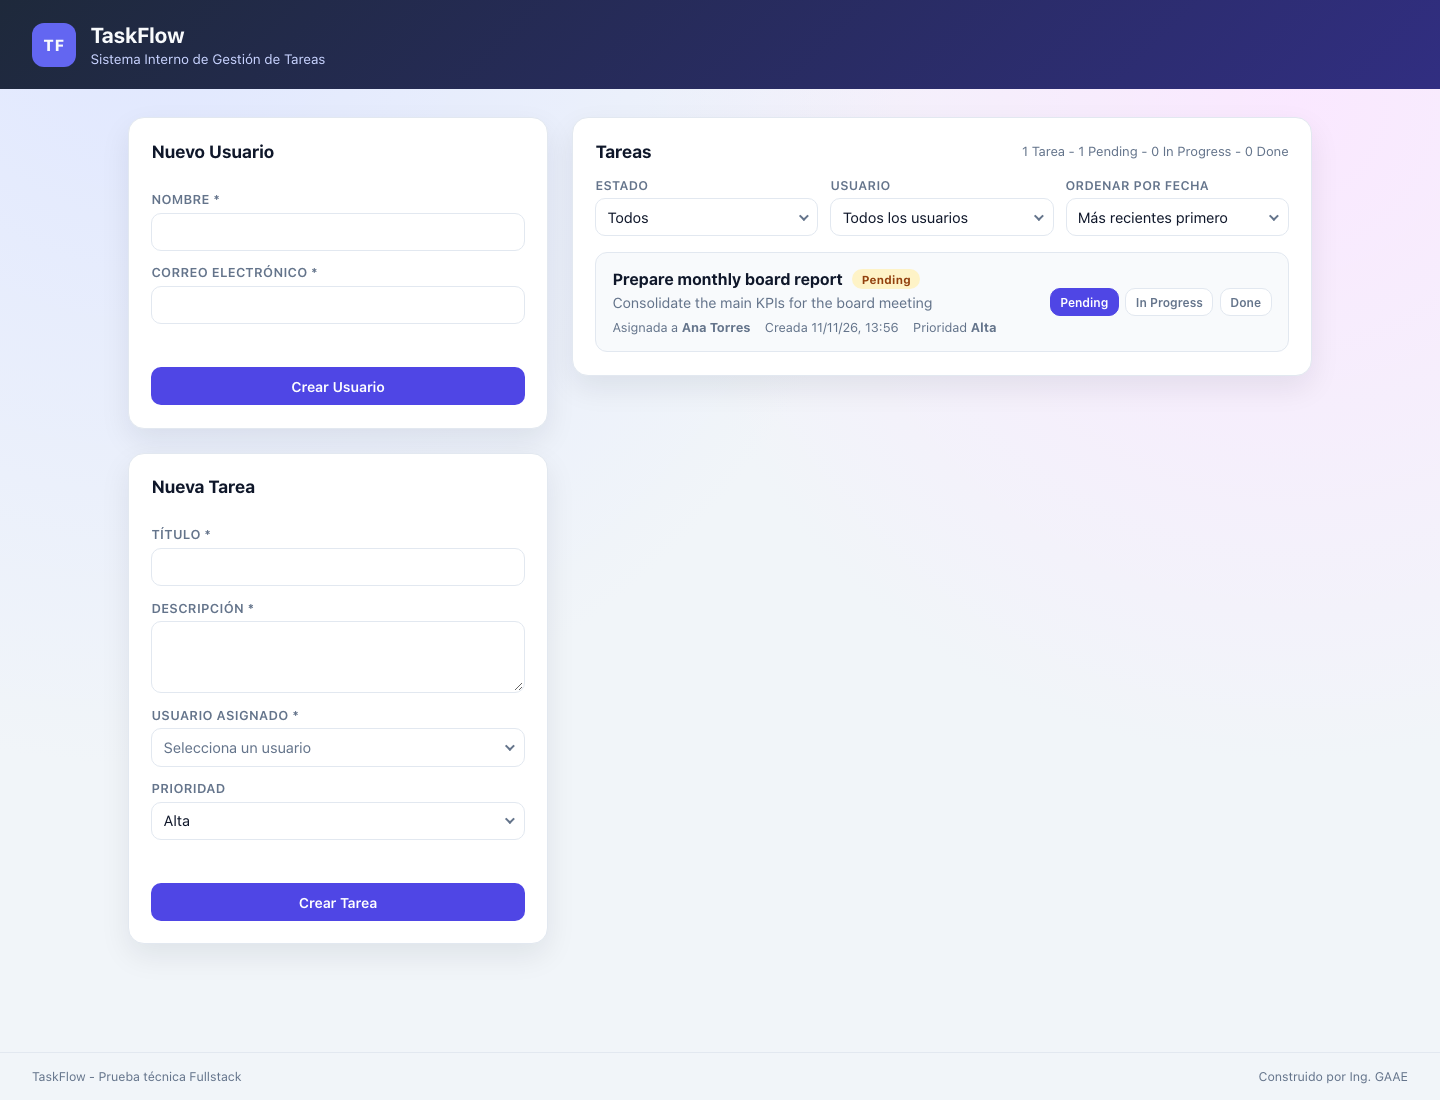
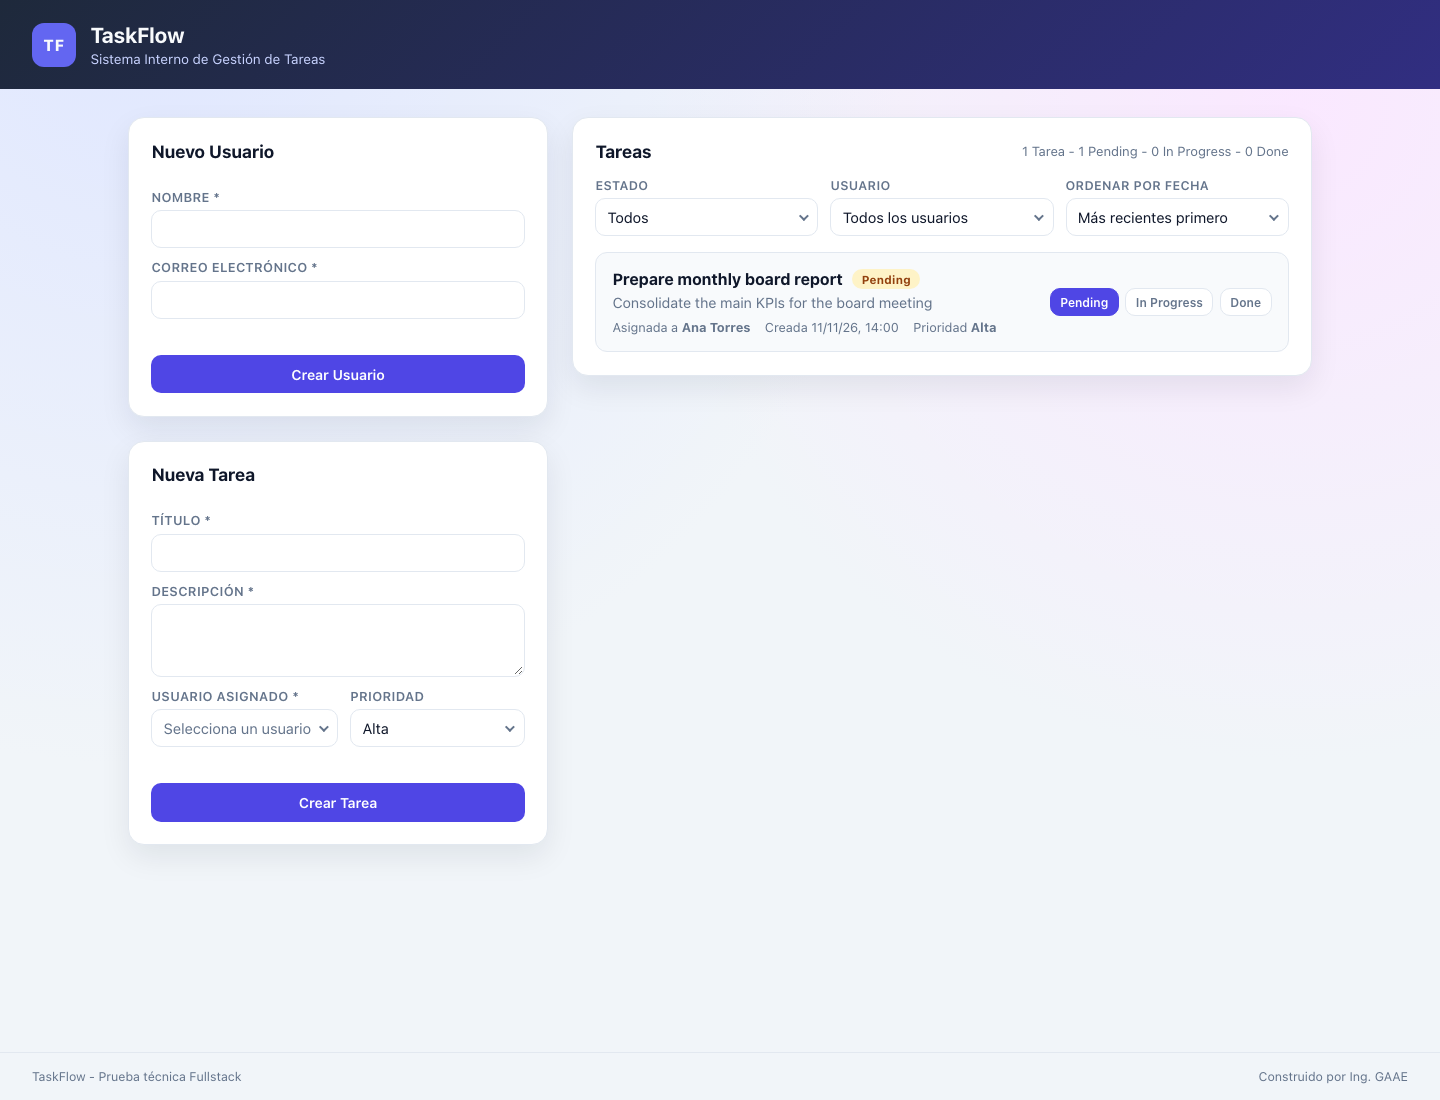
feat: put task form user and priority fields in two columns

diff --git a/frontend/src/app/features/tasks/task-form/task-form.component.html b/frontend/src/app/features/tasks/task-form/task-form.component.html
@@ -22,24 +22,26 @@
     }
   </div>
 
-  <div class="field">
-    <label for="task-user">Usuario asignado *</label>
-    <app-select
-      inputId="task-user"
-      formControlName="assignedUserId"
-      placeholder="Selecciona un usuario"
-      [options]="userOptions()" />
-    @if (form.controls.assignedUserId.invalid && form.controls.assignedUserId.touched) {
-      <p class="field-error">Debes seleccionar un usuario asignado.</p>
-    }
-    @if (users().length === 0) {
-      <p class="hint">Aún no hay usuarios. Crea uno primero.</p>
-    }
-  </div>
+  <div class="field-row">
+    <div class="field">
+      <label for="task-user">Usuario asignado *</label>
+      <app-select
+        inputId="task-user"
+        formControlName="assignedUserId"
+        placeholder="Selecciona un usuario"
+        [options]="userOptions()" />
+      @if (form.controls.assignedUserId.invalid && form.controls.assignedUserId.touched) {
+        <p class="field-error">Debes seleccionar un usuario asignado.</p>
+      }
+      @if (users().length === 0) {
+        <p class="hint">Aún no hay usuarios. Crea uno primero.</p>
+      }
+    </div>
 
-  <div class="field">
-    <label for="task-priority">Prioridad</label>
-    <app-select inputId="task-priority" formControlName="priority" [options]="priorityOptions" />
+    <div class="field">
+      <label for="task-priority">Prioridad</label>
+      <app-select inputId="task-priority" formControlName="priority" [options]="priorityOptions" />
+    </div>
   </div>
 
   <app-alert type="error" [message]="errorMessage()" (dismissed)="errorMessage.set(null)" />

diff --git a/frontend/src/styles.css b/frontend/src/styles.css
@@ -73,7 +73,19 @@ body {
 .form-card {
   display: flex;
   flex-direction: column;
-  gap: 0.9rem;
+  gap: 0.75rem;
+}
+
+.field-row {
+  display: grid;
+  grid-template-columns: 1fr 1fr;
+  gap: 0.75rem;
+}
+
+@media (max-width: 520px) {
+  .field-row {
+    grid-template-columns: 1fr;
+  }
 }
 
 .field {
